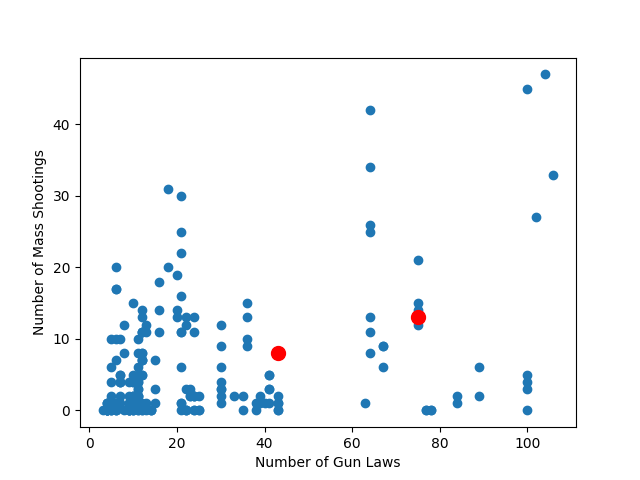
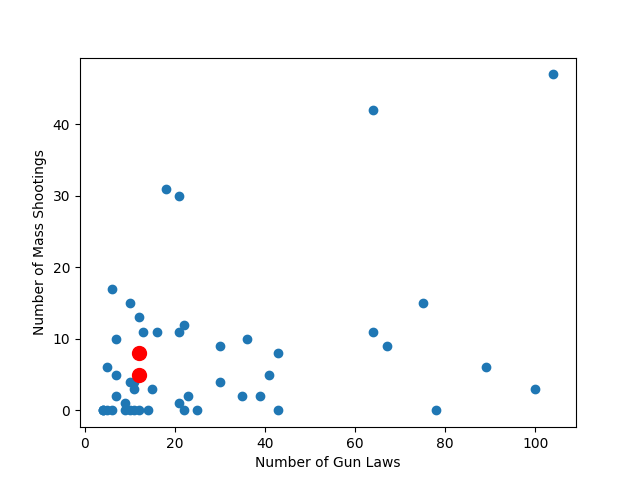
Final k-means, and set to run toy datasets

diff --git a/Clustering/k-means/k-means.py b/Clustering/k-means/k-means.py
@@ -92,7 +92,7 @@ def k_means(count_xy ,k):
 
     #Intialize k random centroids to represent each cluster
     centroids = randomize_centroids(count_xy,k)
-    plot_initial_centroids(count_xy, centroids)
+    #plot_initial_centroids(count_xy, centroids)
 
     # Initialize
     iterations = 0
@@ -136,28 +136,28 @@ def plot(data,final_centroids, nearest_centroid ):
     plt.xlabel("Number of Gun Laws")
     plt.ylabel("Number of Mass Shootings")
     plt.scatter(final_centroids[:, 0], final_centroids[:, 1], c='r', s=100)
-    plt.savefig("finalclusters_two.png")
-    #plt.show()
-    plt.close()
+    #plt.savefig("Plots/finalclusters_two_2016.png")
+    plt.show()
+    #plt.close()
 
 def plot_initial_centroids(data, centroids):
     plt.scatter(data[:, 0], data[:, 1])
     plt.xlabel("Number of Gun Laws")
     plt.ylabel("Number of Mass Shootings")
     plt.scatter(centroids[:, 0], centroids[:, 1], c='r', s=100)
-    plt.savefig("initialcentroids_two.png")
+    plt.savefig("Plots/initialcentroids_two_2016.png")
     plt.close()
 
-    #plt.show()
+    plt.show()
 
 def initial_plot_two_clusters(data):
     plt.scatter(data[:, 0], data[:, 1])
     plt.xlabel("Number of Gun Laws")
     plt.ylabel("Number of Mass Shootings")
     ax = plt.gca()
-    ax.add_patch(mpatches.Circle([17, 8], radius = 4, fill=False, lw=3, color= "r"))
-    ax.add_patch(mpatches.Circle([78, 16], radius = 4, fill=False, lw=3, color= "r"))
-    plt.savefig("twocentroidguess.png")
+    ax.add_patch(mpatches.Circle([20, 10], radius = 4, fill=False, lw=3, color= "r"))
+    ax.add_patch(mpatches.Circle([90, 20], radius = 4, fill=False, lw=3, color= "r"))
+    plt.savefig("Plots/twocentroidguess_2016.png")
     #plt.show()
     plt.close()
 
@@ -170,7 +170,7 @@ def initial_plot_three_clusters(data):
     ax.add_patch(mpatches.Circle([17, 8], radius=4, fill=False, lw=3, color="r"))
     ax.add_patch(mpatches.Circle([83, 34], radius=4, fill=False, lw=3, color="r"))
     ax.add_patch(mpatches.Circle([74, 7], radius=4, fill=False, lw=3, color="r"))
-    plt.savefig("threecentroidguess.png")
+    plt.savefig("Plots/threecentroidguess.png")
     plt.close()
 
     #plt.show()
@@ -179,7 +179,7 @@ def initial_plot(data):
     plt.scatter(data[:, 0], data[:, 1])
     plt.xlabel("Number of Gun Laws")
     plt.ylabel("Number of Mass Shootings")
-    plt.savefig("IntitialPlot.png")
+    plt.savefig("Plots/IntitialPlot_2016.png")
     plt.close()
     #plt.show()
 
@@ -187,8 +187,8 @@ def initial_plot(data):
 if __name__ == '__main__':
 
     #Files
-    gunlaw_counts_file = "NumGunLawsByState_Cleaned.xlsx"
-    massshooting_counts_file = "MassShootings_Cleaned.xlsx"
+    gunlaw_counts_file = "../../ToyDatasets/NumGunLawsByState_Cleaned_2016.xlsx"
+    massshooting_counts_file = "../../ToyDatasets/MassShootings_Cleaned_2016.xlsx"
 
     #Read Files into Dictionary
     gunlawCounts_perStateYearDict = read_file(gunlaw_counts_file, 1)
@@ -199,10 +199,10 @@ if __name__ == '__main__':
     count_xy = merge_data(gunlawCounts_perStateYearDict, massshootingCounts_perStateYearDict)
 
     #Plot to pick k
-    initial_plot(count_xy)
+    #initial_plot(count_xy)
 
     #Visualize where you think clusters are
-    initial_plot_two_clusters(count_xy)
+    #initial_plot_two_clusters(count_xy)
     #initial_plot_three_clusters(count_xy)
 
     #2 clusters
@@ -210,6 +210,7 @@ if __name__ == '__main__':
     plot(count_xy, final_centroids, nearest_centroid)
 
     # 3 clusters
-    # k_means(count_xy, 3)
+    #final_centroids, nearest_centroid = k_means(count_xy, 3)
+    #plot(count_xy, final_centroids, nearest_centroid)
 
 
